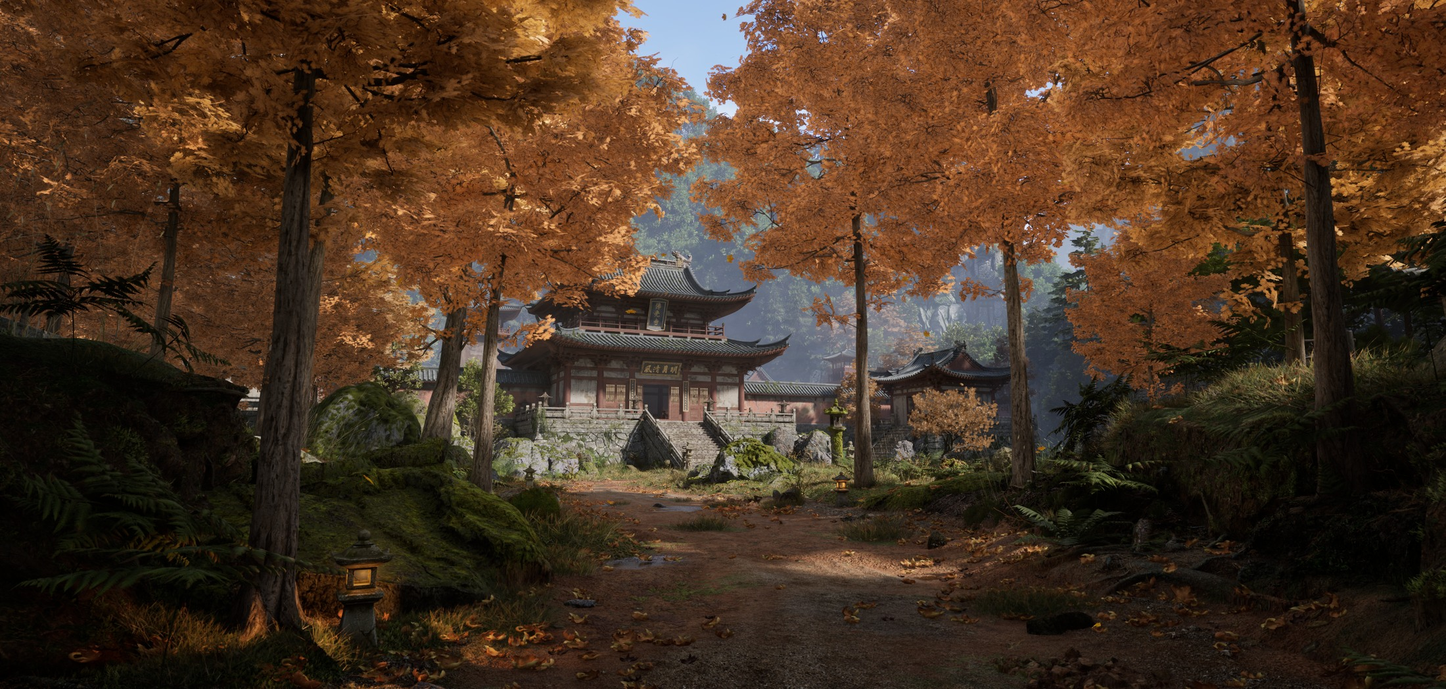
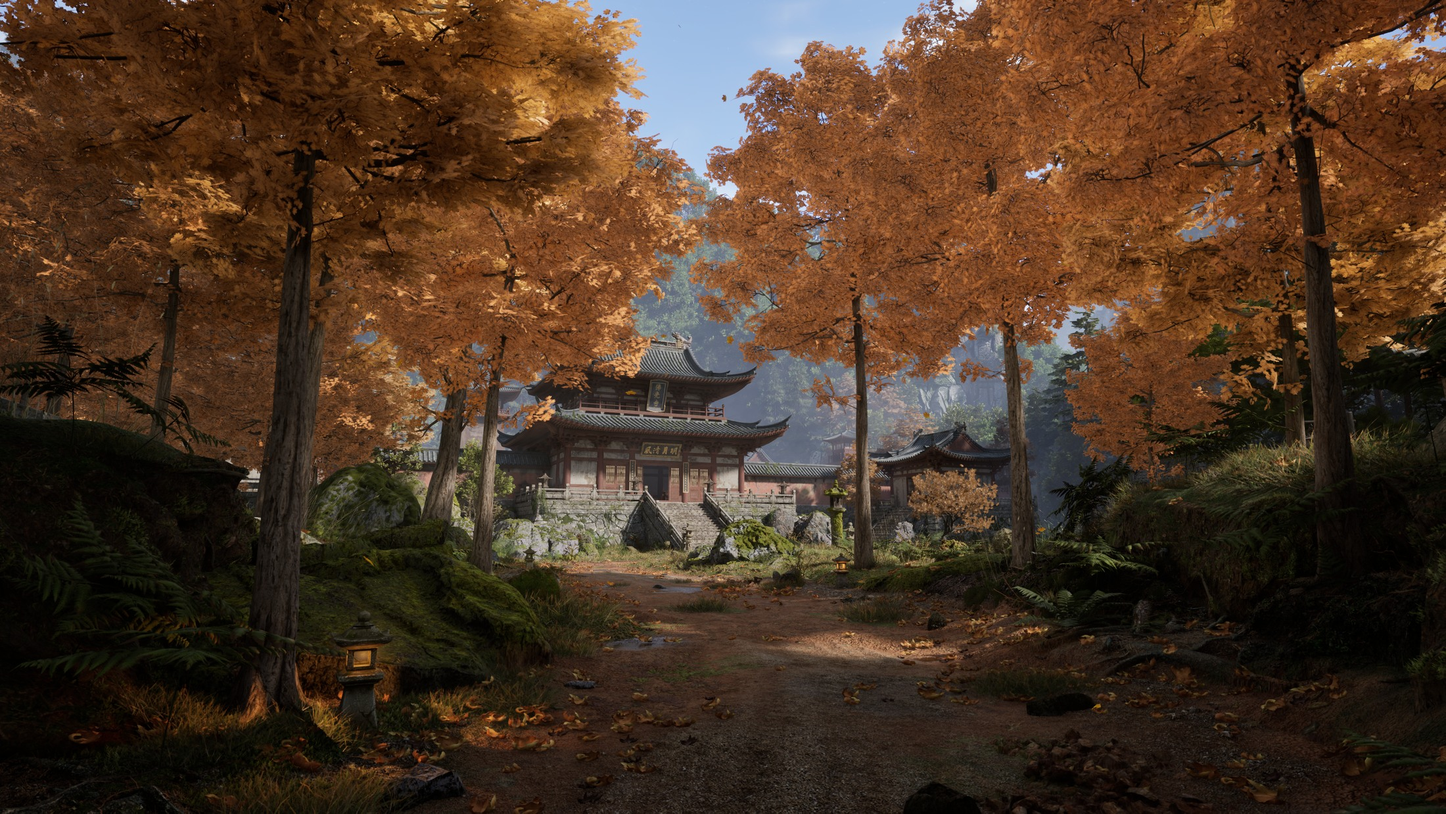
场景四张改为适配 00036 的 16:9（00036 零裁切，其余按构图定向裁宽）

diff --git a/resume/index.html b/resume/index.html
@@ -1264,7 +1264,7 @@ html[data-style="L"] .sidebar .s-block{ margin-bottom:20px !important; }
 
 /* 2×2 拼图格子 */
 .grid4eq{ display:grid; grid-template-columns:1fr 1fr; gap:2.5mm; margin:2.5mm 0 0; }
-.grid4eq img{ width:100%; height:auto; aspect-ratio:2.1; object-fit:cover; display:block; }
+.grid4eq img{ width:100%; height:auto; aspect-ratio:16/9; object-fit:cover; display:block; }
 .grid3{ display:grid; grid-template-columns:repeat(3,1fr); gap:2.5mm; margin:2.5mm 0 0; align-items:center; }
 .grid3 img{ width:100%; height:auto; display:block; }
 .grid2x2{ display:grid; grid-template-columns:1fr 1fr; gap:2.5mm; margin:2.5mm 0 0; }
